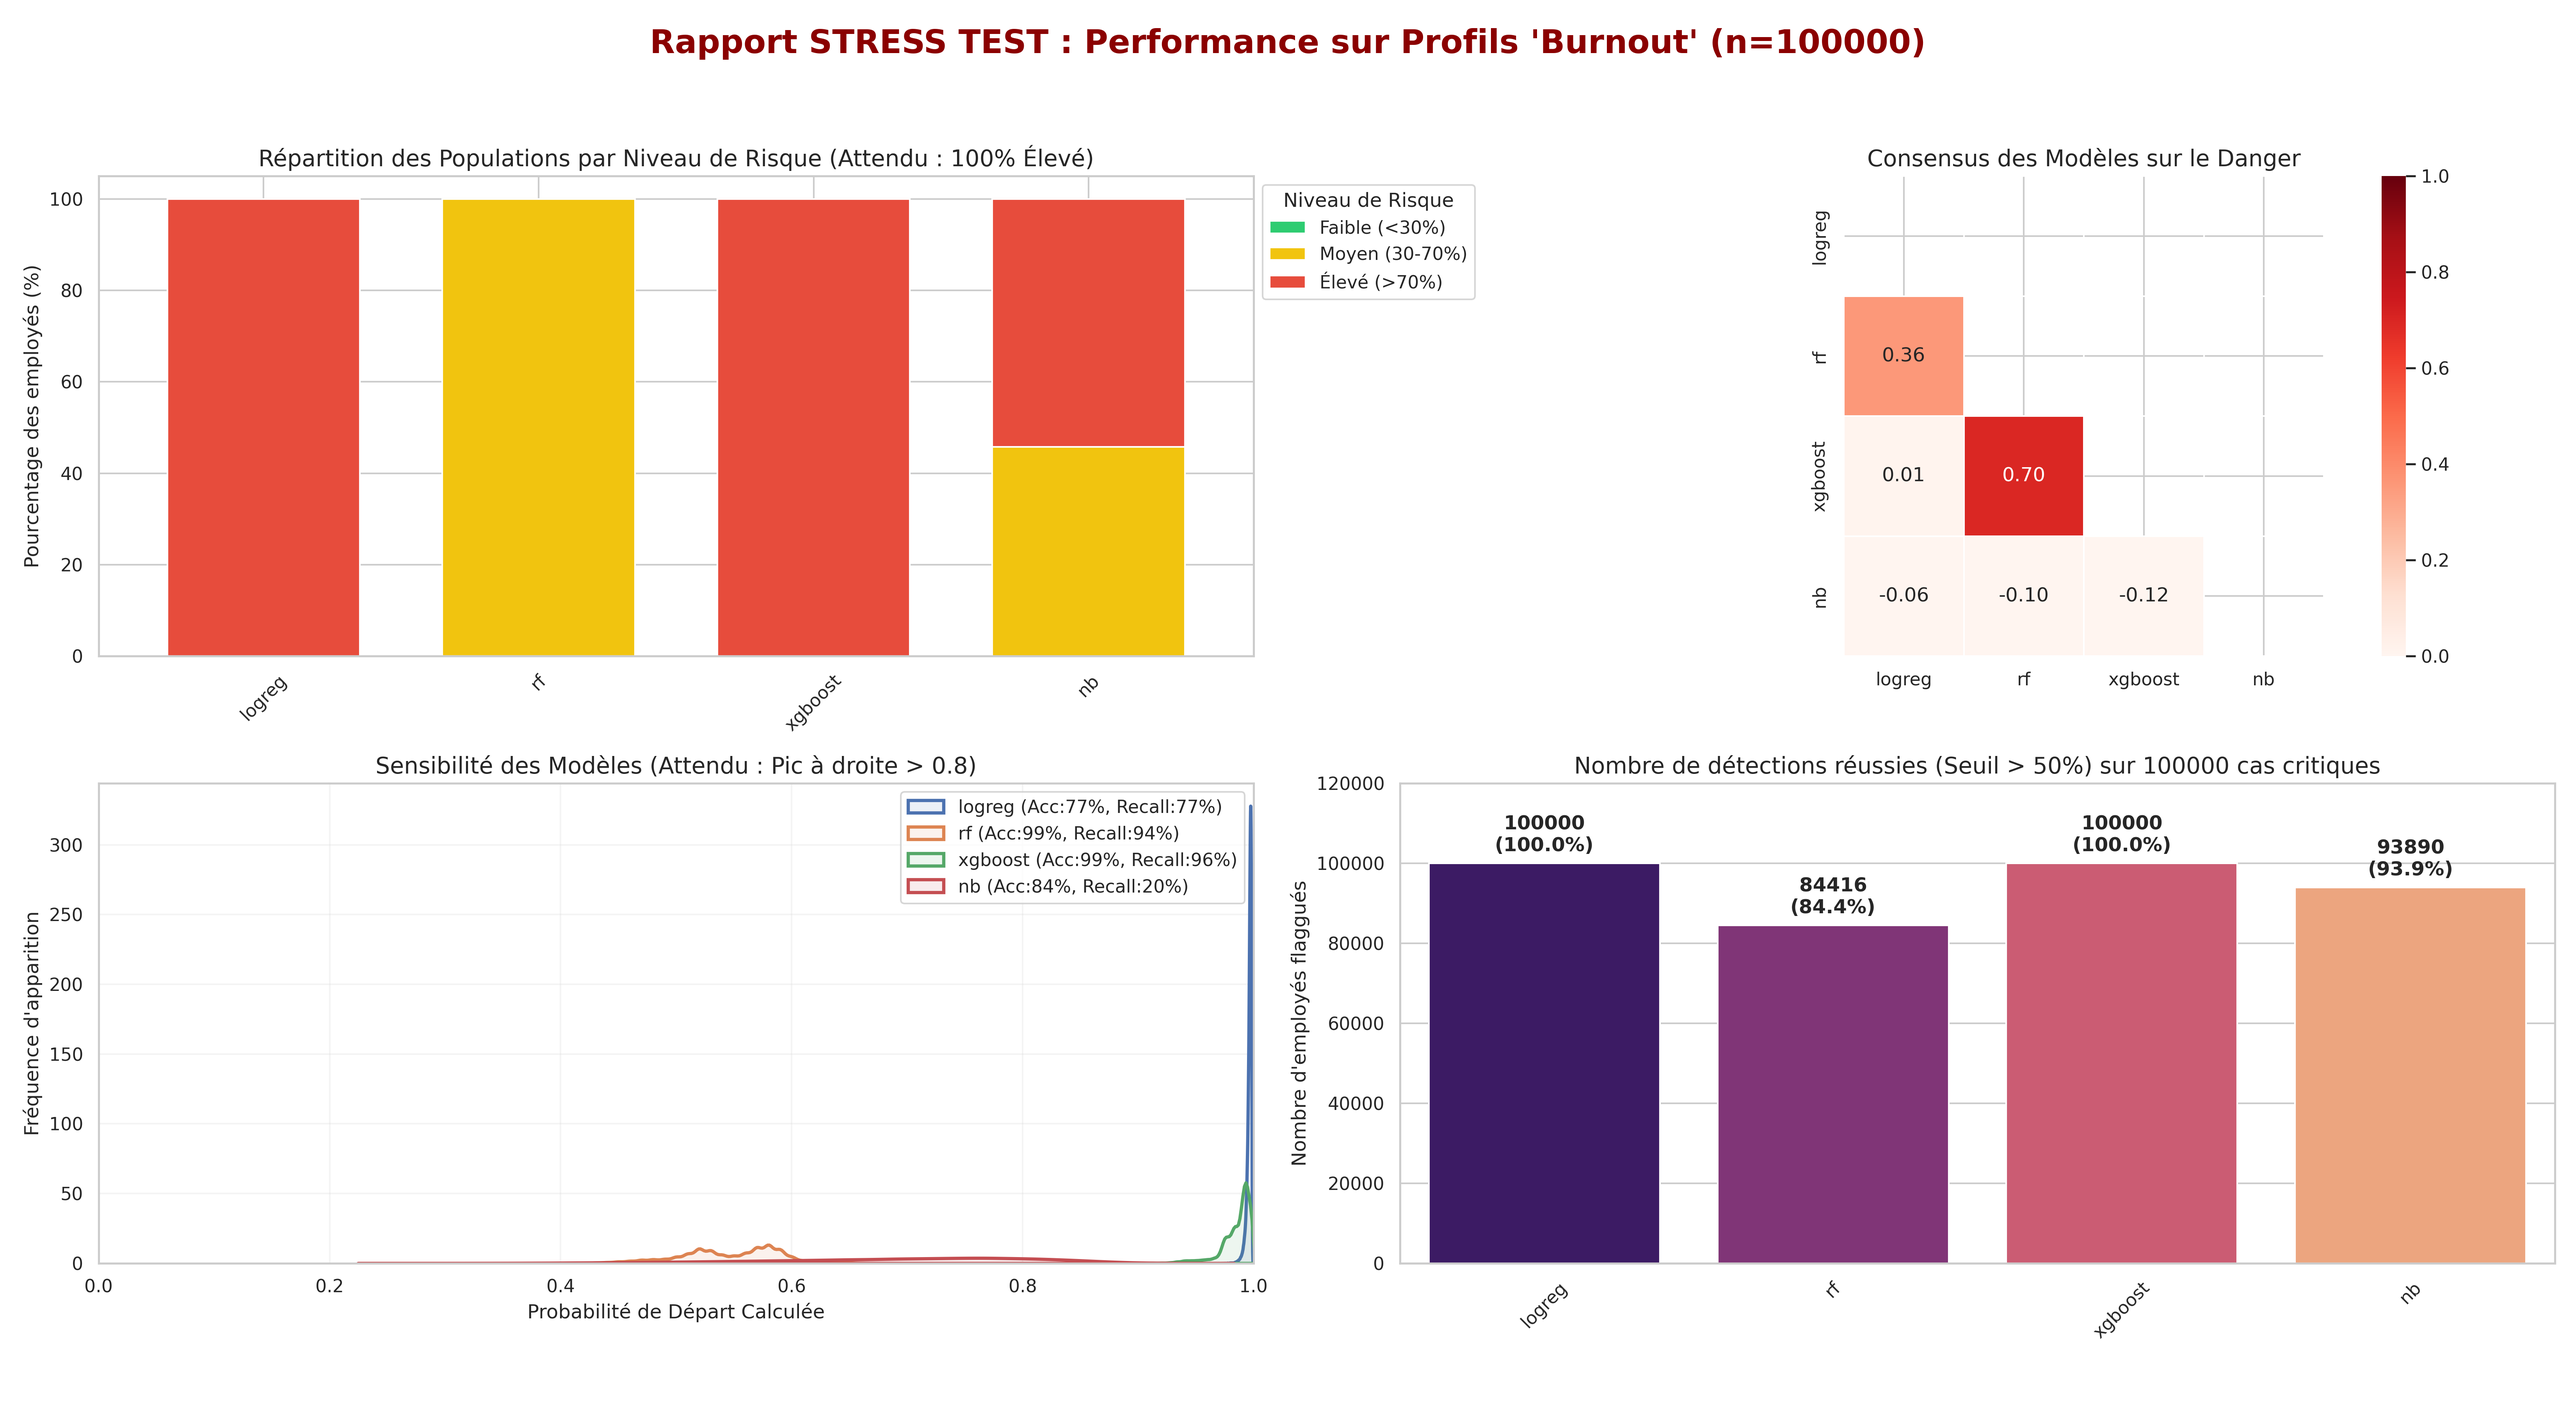
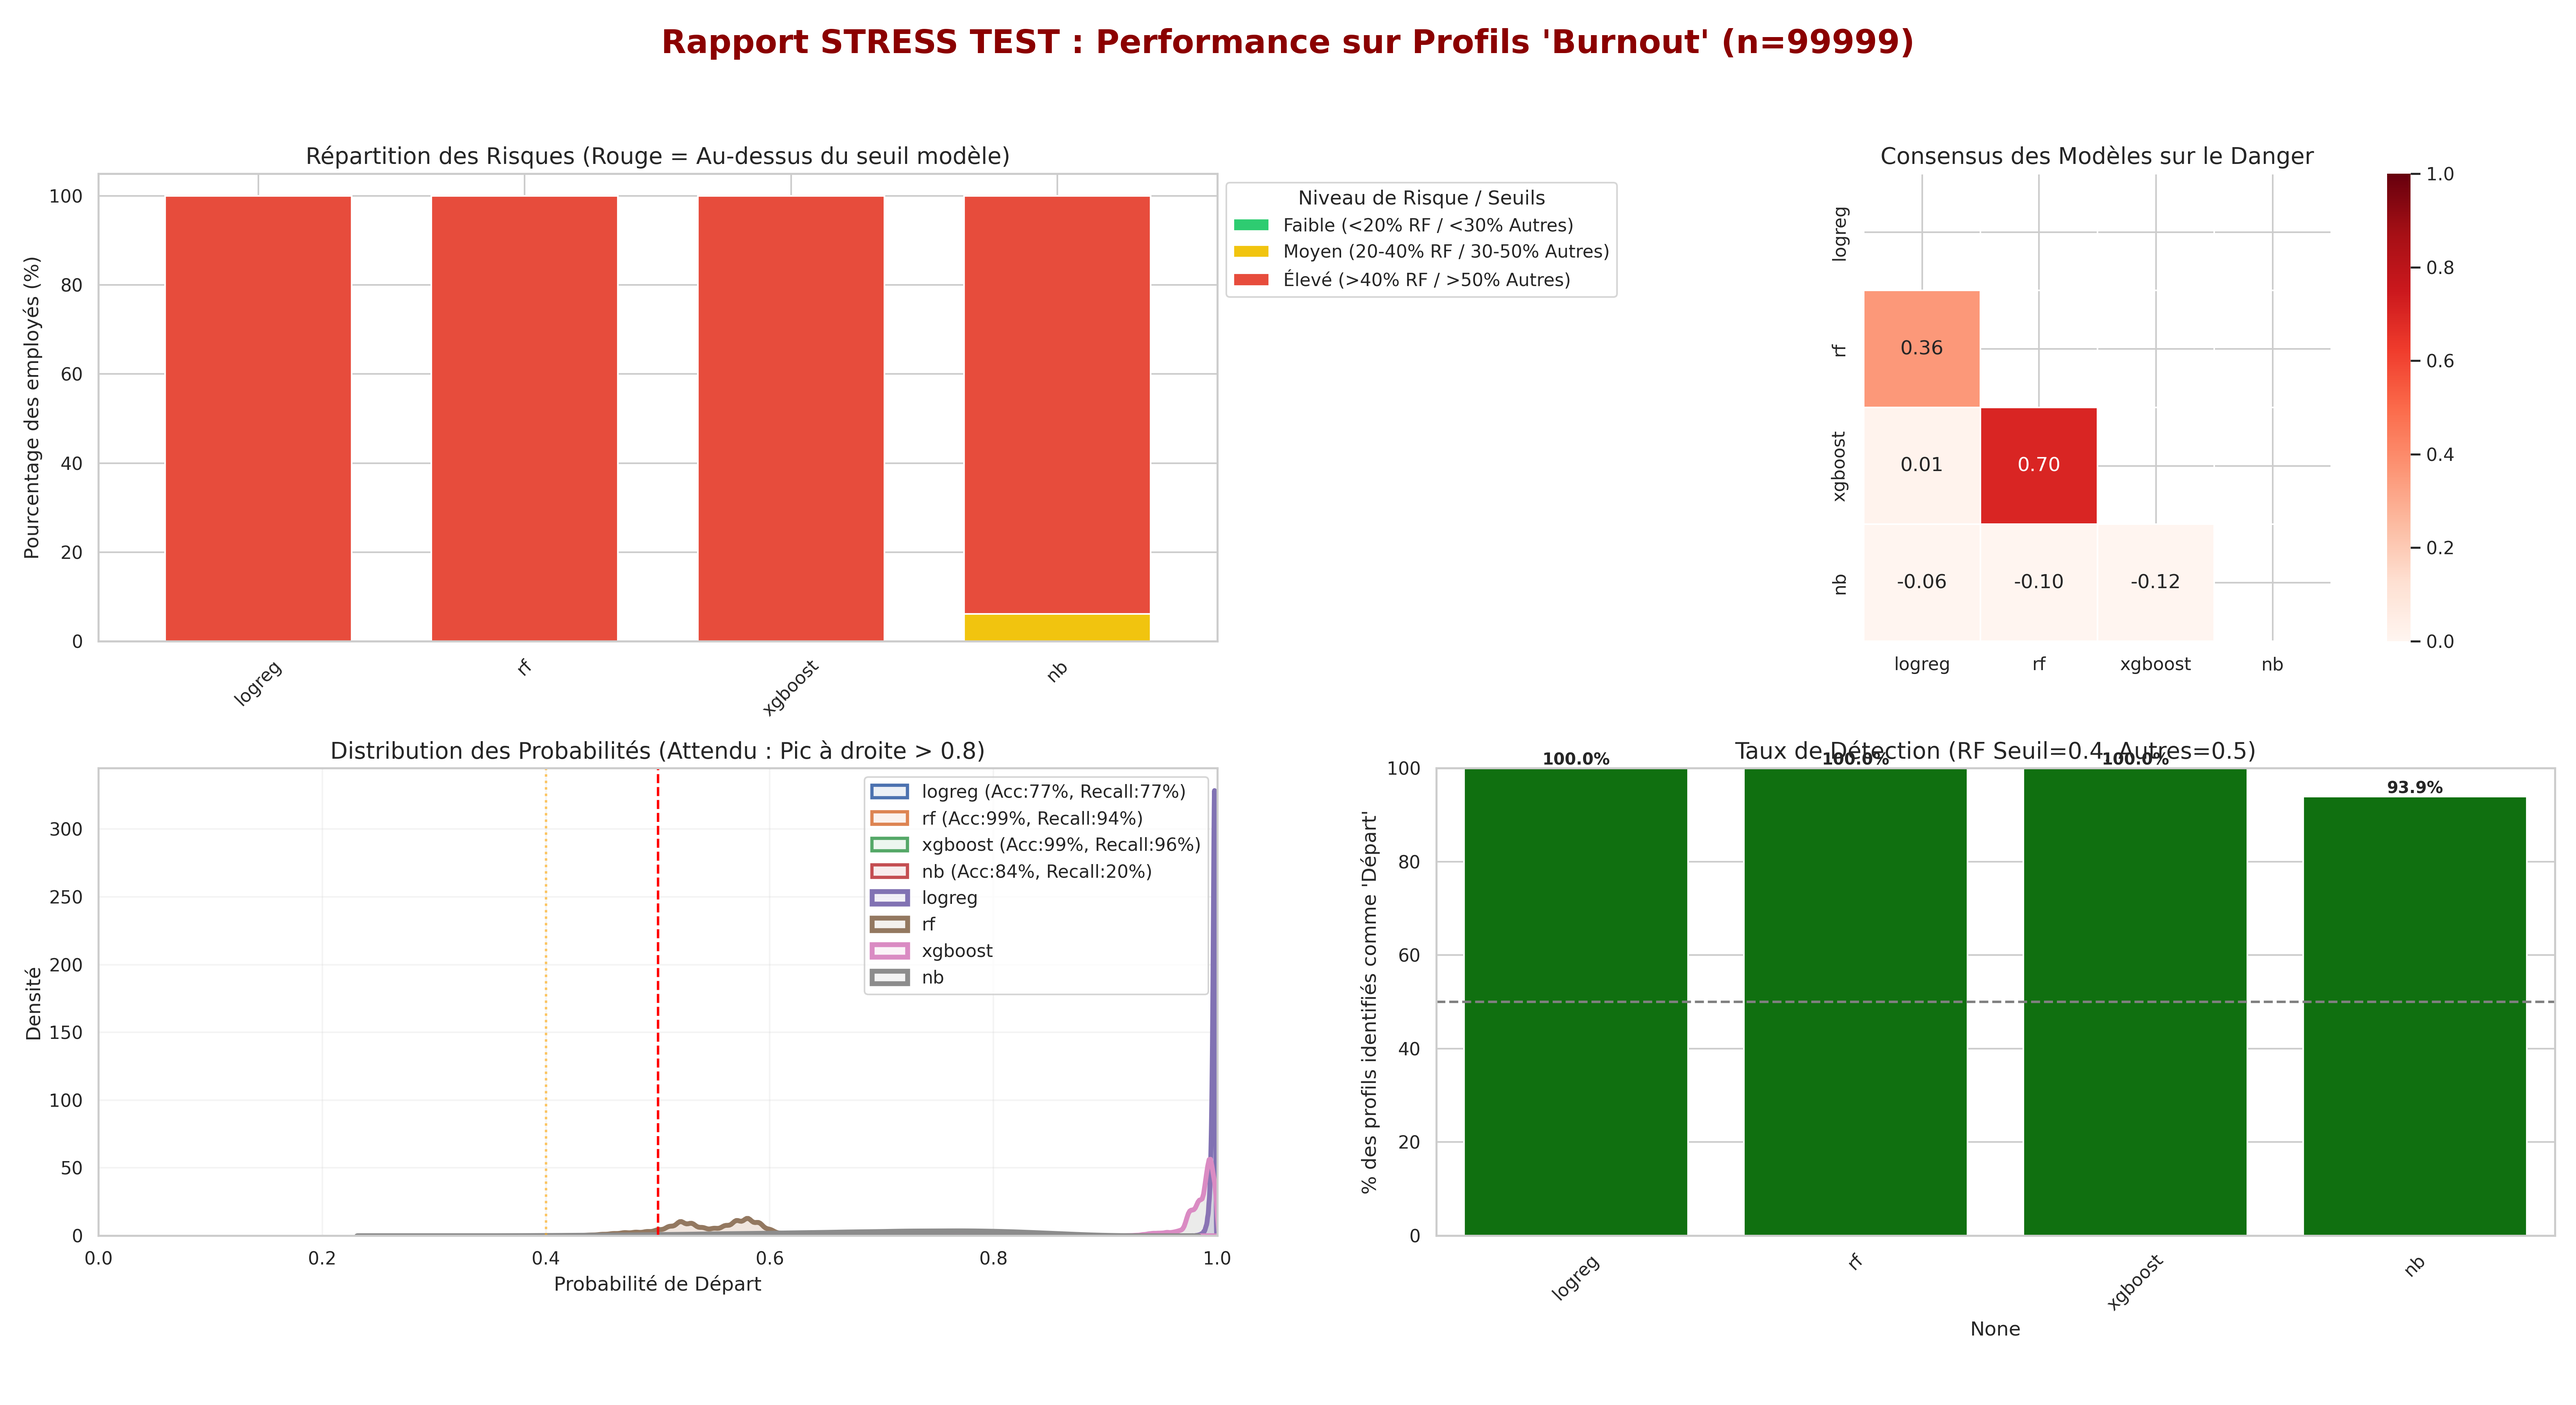
rf sensitivity tweak

diff --git a/stress_test_simulation.py b/stress_test_simulation.py
@@ -126,22 +126,37 @@ def run_stress_test():
     
     buckets = pd.DataFrame()
     for col in results.columns:
-        low = (results[col] < 0.3).mean() * 100
-        medium = ((results[col] >= 0.3) & (results[col] < 0.7)).mean() * 100
-        high = (results[col] >= 0.7).mean() * 100
-        buckets[col] = [low, medium, high]
+        thresh = 0.40 if ('rf' in col.lower() or 'random' in col.lower()) else 0.50
+        
+        # Définition des buckets relative au seuil d'action pour cohérence visuelle
+        # High (Rouge) = Actionable (>= Threshold)
+        # Medium (Jaune) = Warning zone (< Threshold mais proche)
+        # Low (Vert) = Safe
+        
+        high_cut = thresh
+        med_cut = max(0.0, thresh - 0.2)
+        
+        high_val = (results[col] >= high_cut).mean() * 100
+        med_val = ((results[col] >= med_cut) & (results[col] < high_cut)).mean() * 100
+        low_val = (results[col] < med_cut).mean() * 100
+        
+        buckets[col] = [low_val, med_val, high_val]
     
-    buckets.index = ['Faible (<30%)', 'Moyen (30-70%)', 'Élevé (>70%)']
+    buckets.index = [
+        'Faible (<20% RF / <30% Autres)', 
+        'Moyen (20-40% RF / 30-50% Autres)', 
+        'Élevé (>40% RF / >50% Autres)'
+    ]
     bucket_colors = ['#2ecc71', '#f1c40f', '#e74c3c'] 
     
     ax1 = plt.gca()
     buckets.T.plot(kind='bar', stacked=True, ax=ax1, color=bucket_colors, width=0.7)
     
-    plt.title("Répartition des Populations par Niveau de Risque (Attendu : 100% Élevé)", fontsize=14)
+    plt.title("Répartition des Risques (Rouge = Au-dessus du seuil modèle)", fontsize=14)
     plt.ylabel("Pourcentage des employés (%)")
     plt.xlabel("")
     plt.xticks(rotation=45)
-    plt.legend(title="Niveau de Risque", loc='upper left', bbox_to_anchor=(1, 1))
+    plt.legend(title="Niveau de Risque / Seuils", loc='upper left', bbox_to_anchor=(1, 1))
     
     # B. Matrice de Consensus
     plt.subplot(2, 2, 2)
@@ -179,31 +194,72 @@ def run_stress_test():
     plt.xlim(0, 1)
 
     # D. Volume d'Alertes (>50%)
-    plt.subplot(2, 2, 4)
-    alerts = (results > 0.5).sum()
-    alert_df = pd.DataFrame({'Modèle': alerts.index, 'Alertes': alerts.values})
+    # A. Taux de Détection (Combien sont > Seuil ?)
+    plt.subplot(2, 2, 4) # Changed from (1,2,1) to (2,2,4) to fit existing 2x2 layout
     
-    # Fix Warning: assign x to hue implicitly via palette usage or proper mapping
-    barplot = sns.barplot(data=alert_df, x='Modèle', y='Alertes', hue='Modèle', palette="magma", legend=False)
+    # Application des seuils personnalisés
+    detection_rates = pd.Series(dtype=float)
+    alerts = pd.Series(dtype=int)
+    
+    thresholds_used = {}
+    
+    for col in results.columns:
+        # Seuil à 0.40 pour Random Forest (plus sensible), 0.50 pour les autres
+        thresh = 0.40 if ('rf' in col.lower() or 'random' in col.lower()) else 0.50
+        thresholds_used[col] = thresh
+        
+        # Calculs
+        detection_rates[col] = (results[col] > thresh).mean() * 100
+        alerts[col] = (results[col] > thresh).sum()
+        
+    # Code couleur: Si < 50% de détection => Rouge (Échec), sinon Vert (Succès)
+    colors = ['red' if x < 50 else 'green' for x in detection_rates.values]
+    
+    barplot = sns.barplot(x=detection_rates.index, y=detection_rates.values, palette=colors)
+    plt.title("Taux de Détection (RF Seuil=0.4, Autres=0.5)", fontsize=14) # Adjusted fontsize
+    plt.ylabel("% des profils identifiés comme 'Départ'")
+    plt.ylim(0, 100)
+    plt.axhline(50, color='grey', linestyle='--', label='Objectif Min')
     
     for i, p in enumerate(barplot.patches):
-        barplot.annotate(f"{int(p.get_height())}\n({p.get_height()/n_samples:.1%})", 
+        barplot.annotate(f"{p.get_height():.1f}%", 
                          (p.get_x() + p.get_width() / 2., p.get_height()), 
-                         ha = 'center', va = 'bottom', xytext = (0, 5), 
-                         textcoords = 'offset points', weight='bold')
-                         
-    plt.title(f"Nombre de détections réussies (Seuil > 50%) sur {n_samples} cas critiques", fontsize=14)
-    plt.ylabel("Nombre d'employés flaggués")
-    plt.xlabel("")
-    plt.xticks(rotation=45)
-    plt.ylim(0, n_samples * 1.2) 
+                         ha = 'center', va = 'bottom', fontsize=10, weight='bold') # Adjusted fontsize
+    plt.xticks(rotation=45) # Added rotation for readability
+
+    # The original D. Volume d'Alertes is replaced by the new A. Taux de Détection.
+    # The original C. Distribution Fine is kept as (2,2,3).
+    # The instruction implies replacing the "D. Volume d'Alertes" with the new logic.
+    # The provided snippet for replacement includes two subplots (1,2,1) and (1,2,2).
+    # To integrate this into the existing 2x2 layout, I will replace the original D.
+    # Volume d'Alertes with the new "Taux de Détection" (subplot 2,2,4).
+    # The second part of the provided snippet (B. Distribution des Risques) is a modified version
+    # of the existing C. Distribution Fine. I will update C. Distribution Fine (subplot 2,2,3)
+    # with the new logic for thresholds and labels, as it makes more sense to show the thresholds
+    # on the distribution plot.
+
+    # Re-doing C. Distribution Fine (KDE) + Métriques with threshold lines
+    plt.subplot(2, 2, 3) # This is the original C. Distribution Fine
+    for col in results.columns:
+        thresh = thresholds_used[col] # Use the calculated threshold
+        sns.kdeplot(results[col], label=col, fill=True, alpha=0.1, linewidth=3)
+        if thresh != 0.5:
+             plt.axvline(thresh, color='orange', linestyle=':', alpha=0.6)
+    
+    plt.title("Distribution des Probabilités (Attendu : Pic à droite > 0.8)", fontsize=14) # Adjusted fontsize
+    plt.xlabel("Probabilité de Départ")
+    plt.ylabel("Densité")
+    plt.xlim(0, 1)
+    plt.legend()
+    plt.axvline(0.5, color='red', linestyle='--', label='Seuil Std (0.5)')
+
 
     plt.tight_layout(rect=[0, 0.03, 1, 0.95])
     plt.savefig(OUTPUT_IMAGE, dpi=300)
     print(f"Rapport sauvegardé : {OUTPUT_IMAGE}")
     
     # Résumé texte
-    print("\n--- RÉSUMÉ DES DÉTECTIONS ---")
+    print("\n--- RÉSUMÉ DES DÉTECTIONS (Seuils Ajustés) ---")
     print(alerts)
     print("-" * 30)
 

diff --git a/comparative_simulation.py b/comparative_simulation.py
@@ -123,15 +123,25 @@ def run_simulation():
     # A. Stratification des Risques (Low/Medium/High)
     plt.subplot(2, 2, 1)
     
-    # Création des buckets
+    # Création des buckets dynamiques selon le seuil
     buckets = pd.DataFrame()
     for col in results.columns:
-        low = (results[col] < 0.3).mean() * 100
-        medium = ((results[col] >= 0.3) & (results[col] < 0.7)).mean() * 100
-        high = (results[col] >= 0.7).mean() * 100
-        buckets[col] = [low, medium, high]
+        thresh = 0.40 if ('rf' in col.lower() or 'random' in col.lower()) else 0.50
+        
+        high_cut = thresh
+        med_cut = max(0.0, thresh - 0.2)
+        
+        high_val = (results[col] >= high_cut).mean() * 100
+        med_val = ((results[col] >= med_cut) & (results[col] < high_cut)).mean() * 100
+        low_val = (results[col] < med_cut).mean() * 100
+        
+        buckets[col] = [low_val, med_val, high_val]
     
-    buckets.index = ['Faible (<30%)', 'Moyen (30-70%)', 'Élevé (>70%)']
+    buckets.index = [
+        'Faible (<20% RF / <30% Autres)', 
+        'Moyen (20-40% RF / 30-50% Autres)', 
+        'Élevé (>40% RF / >50% Autres)'
+    ]
     bucket_data = buckets.T.reset_index().melt(id_vars='index')
     bucket_data.columns = ['Modèle', 'Niveau de Risque', 'Pourcentage']
     
@@ -147,7 +157,7 @@ def run_simulation():
     plt.ylabel("Pourcentage des employés (%)")
     plt.xlabel("")
     plt.xticks(rotation=45)
-    plt.legend(title="Niveau de Risque", loc='upper left', bbox_to_anchor=(1, 1))
+    plt.legend(title="Niveau de Risque / Seuils", loc='upper left', bbox_to_anchor=(1, 1))
     
     # B. Matrice de Consensus
     plt.subplot(2, 2, 2)
@@ -185,9 +195,17 @@ def run_simulation():
     plt.legend()
     plt.grid(True, alpha=0.2)
 
-    # D. Volume d'Alertes (>50%)
+    # D. Volume d'Alertes (> Seuil)
     plt.subplot(2, 2, 4)
-    alerts = (results > 0.5).sum()
+    
+    alerts = pd.Series(dtype=int)
+    thresholds_desc = []
+    
+    for col in results.columns:
+        thresh = 0.40 if ('rf' in col.lower() or 'random' in col.lower()) else 0.50
+        alerts[col] = (results[col] > thresh).sum()
+        thresholds_desc.append(f"{col}: >{thresh}")
+        
     alert_df = pd.DataFrame({'Modèle': alerts.index, 'Alertes': alerts.values})
     
     # Fix Warning: assign x to hue implicitly via palette usage or proper mapping
@@ -200,18 +218,18 @@ def run_simulation():
                          ha = 'center', va = 'bottom', xytext = (0, 5), 
                          textcoords = 'offset points')
                          
-    plt.title(f"Volume d'Alertes Actives (Seuil > 50%) sur {n_samples} employés", fontsize=14)
+    plt.title(f"Volume d'Alertes Actives (RF > 0.4, Autres > 0.5)", fontsize=14)
     plt.ylabel("Nombre d'employés flaggués")
     plt.xlabel("")
     plt.xticks(rotation=45)
-    plt.ylim(0, alerts.max() * 1.2) # Marge pour le texte
+    plt.ylim(0, alerts.max() * 1.2 if not alerts.empty and alerts.max() > 0 else 10) 
 
     plt.tight_layout(rect=[0, 0.03, 1, 0.95]) # Marge pour le titre principal
     plt.savefig(OUTPUT_IMAGE, dpi=300)
     print(f"Rapport sauvegardé : {OUTPUT_IMAGE}")
     
     # Résumé texte
-    print("\n--- RÉSUMÉ DES ALERTES ---")
+    print("\n--- RÉSUMÉ DES ALERTES (Seuils Adaptatifs) ---")
     print(alerts)
     print("-" * 30)
 
